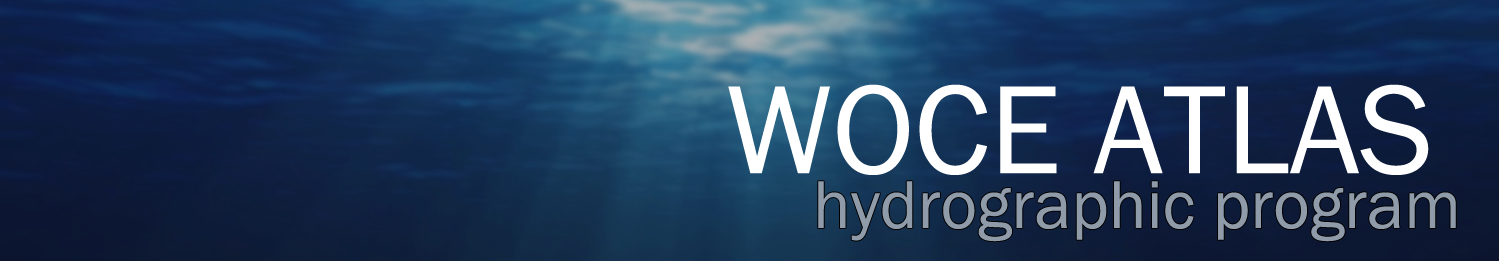
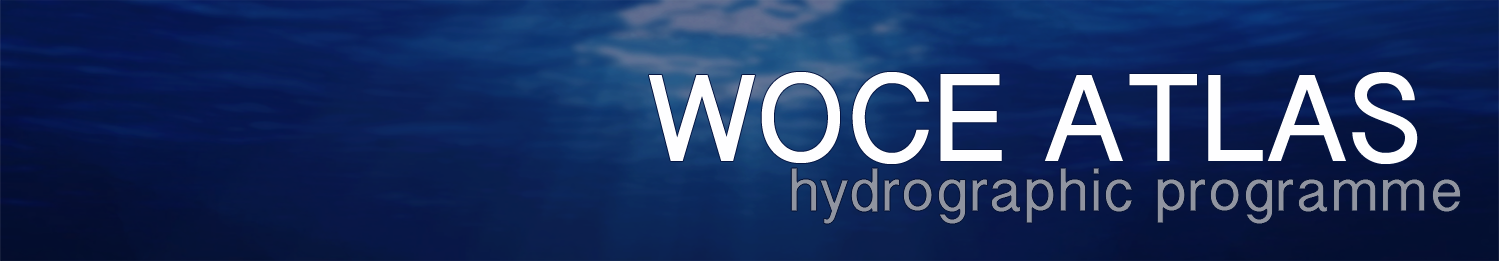
change header programme spelling

diff --git a/index.html b/index.html
@@ -7,7 +7,7 @@
 <!-- Bootstrap -->
 <link href="css/bootstrap.min.css" rel="stylesheet" media="screen">
 <link href='css/woce.css' rel='stylesheet' type='text/css'>
-<link href='http://fonts.googleapis.com/css?family=Open+Sans:300,700' rel='stylesheet' type='text/css'>
+<link href='fonts/open_sans.css' rel='stylesheet' type='text/css'>
 
 </head>
 <body>
@@ -71,7 +71,7 @@
       <div class="col-sm-6">
         <div class="well">
           <a href="http://woceatlas.tamu.edu/">
-            <img class="img-responsive" src="img/southern.png">
+            <img class="img-responsive" src="img/southern.png" title="Go to Southern Atlas">
           </a>
         </a>
       </div> 
@@ -79,7 +79,7 @@
     <div class="col-sm-6">
       <div class="well">
         <a href="http://www-pord.ucsd.edu/whp_atlas/pacific_index.html">
-          <img class="img-responsive" src="img/pacific.jpg">
+          <img class="img-responsive" src="img/pacific.jpg" title="Go to Pacific Atlas">
         </a>
       </div>
     </div><!-- /.col-md-3 -->
@@ -88,13 +88,13 @@
     <div class="col-sm-6">
       <div class="well">
         <a href="http://www-pord.ucsd.edu/whp_atlas/atlantic_index.html">
-          <img class="img-responsive" src="img/atlantic.jpg">
+          <img class="img-responsive" src="img/atlantic.jpg" title="Go to Atlantic Atlas">
         </div>
       </div><!-- /.col-md-3 -->
       <div class="col-sm-6">
         <div class="well">     
           <a href="http://www-pord.ucsd.edu/whp_atlas/indian_index.html">     
-            <img class="img-responsive" src="img/indian.jpg">
+            <img class="img-responsive" src="img/indian.jpg" title="Go to Indian Atlas">
           </a>
         </div>
       </div><!-- /.col-md-4 -->
@@ -215,14 +215,7 @@
   </div>
 
 </div>
-<script>
-$('.row .btn').on('click', function(e) {
-    e.preventDefault();
-    var $this = $(this);
-    var $collapse = $this.closest('.collapse-group').find('.collapse');
-    $collapse.collapse('toggle');
-    });
-</script>
+
 <script src="http://code.jquery.com/jquery.js"></script>
 <script src="js/bootstrap.min.js"></script>
 
